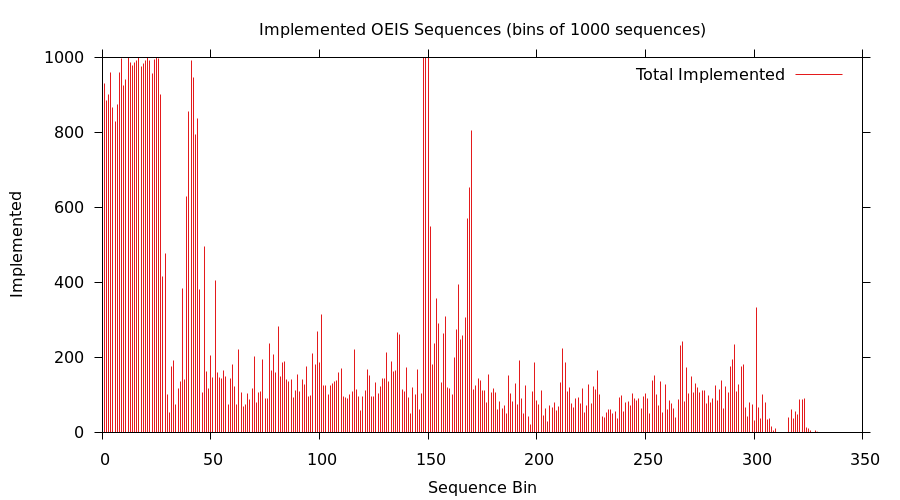
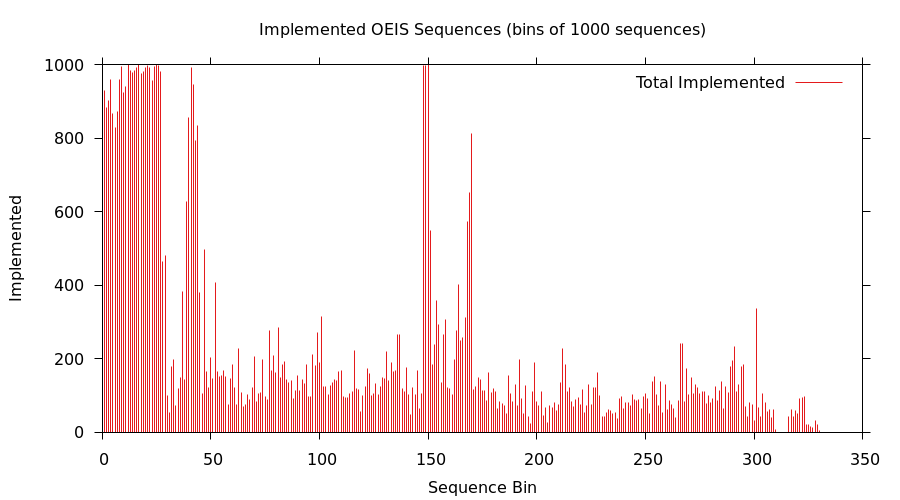
Stats

diff --git a/README.md b/README.md
@@ -6,7 +6,7 @@ Encyclopedia of Integer Sequences](https://oeis.org/) (OEIS).
 
 This is likely the largest coherent collection of programs for OEIS
 sequences beyond the Maple, Mathematica, and Pari programs directly
-associated with many entries.  Currently over 70000 sequences are
+associated with many entries.  Currently over 72500 sequences are
 implemented. The following plot shows the number of sequences
 implemented (in bins of 1000):
 
